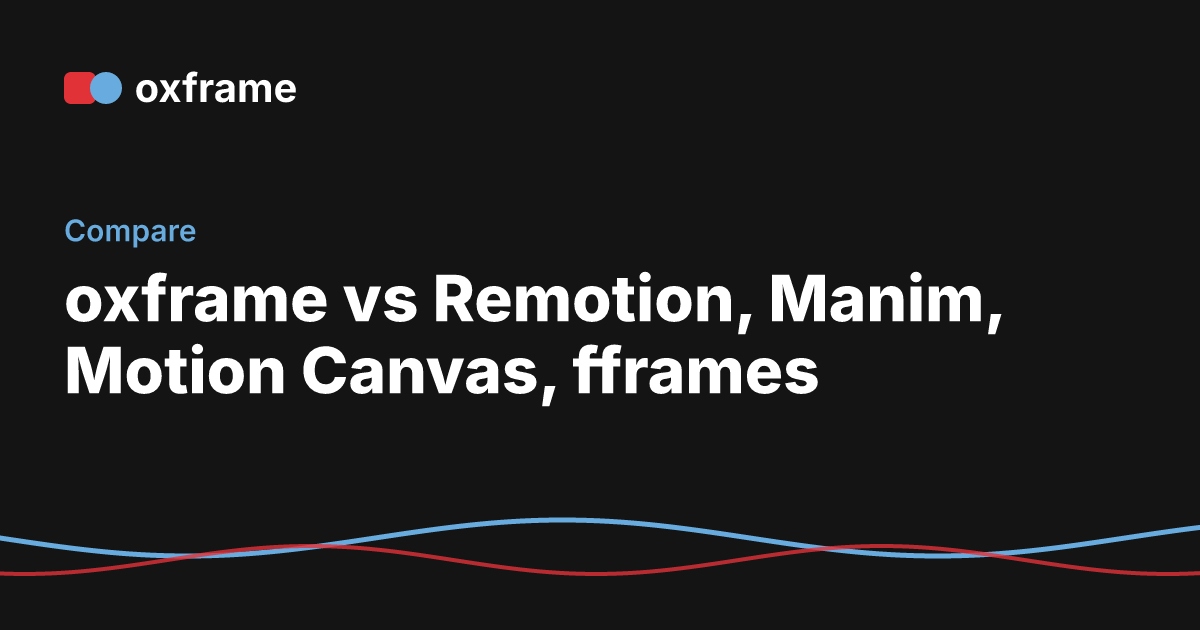
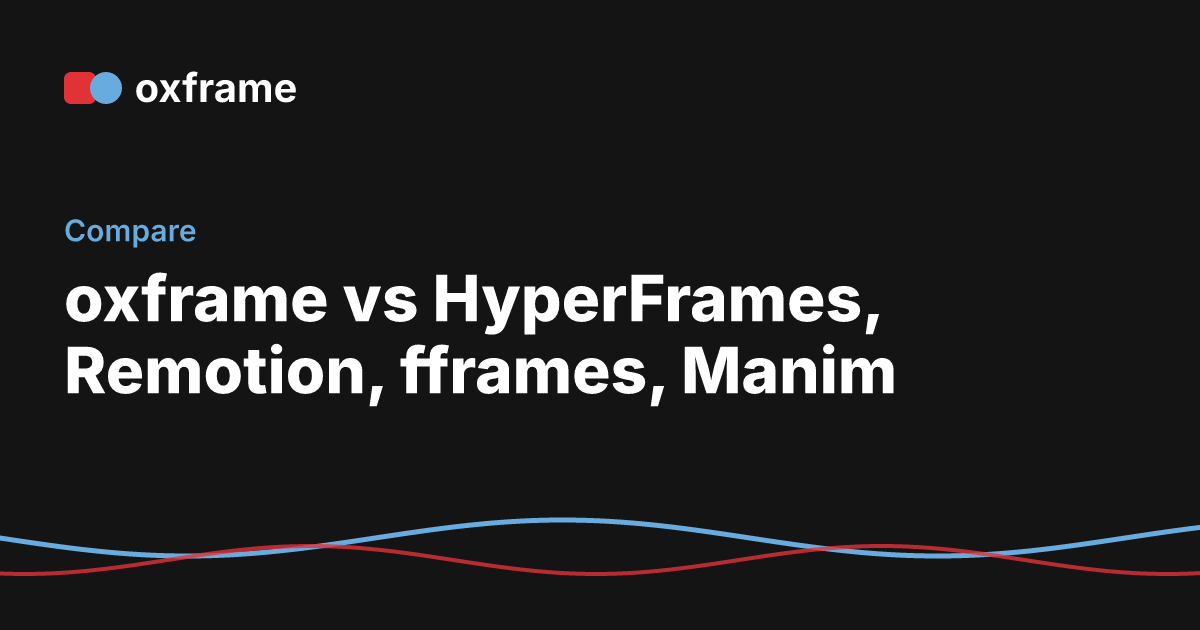
compare: add HyperFrames (and surface the real agent-era rivals) (B2)
The main competitor was missing from the tables. Add a HyperFrames column to
/compare (headers now come from the tools array, so they can't drift from the
rows), and show the agent-era tools — oxframe, HyperFrames, fframes,
Remotion — in the home table instead of the weaker-on-agents set.

The "an agent can see the picture" row is honest now: HyperFrames has
check --snapshots, snapshot --review/--against and compare; Remotion has
Agent Skills. oxframe's row names its edge — a report with line anchors, MCP
— and a new "when to pick HyperFrames" note says the same: native render, no
Chrome, determinism, a check that points at the line of code.

Changed region(s): [[0.0617, 0.4222, 0.8325, 0.6333]]

diff --git a/apps/site/src/lib/compare.ts b/apps/site/src/lib/compare.ts
@@ -1,14 +1,17 @@
 // The comparison on /compare, one row per criterion. Columns: oxframe,
-// fframes, Remotion, Motion Canvas, Manim. The home page shows a few rows.
-export const tools = ['oxframe', 'fframes', 'Remotion', 'Motion Canvas', 'Manim'];
+// fframes, Remotion, HyperFrames, Motion Canvas, Manim. Facts about other
+// tools are from their own docs/README (October 2026). The home page shows a
+// few rows for the agent-era tools (oxframe, HyperFrames, fframes, Remotion).
+export const tools = ['oxframe', 'fframes', 'Remotion', 'HyperFrames', 'Motion Canvas', 'Manim'];
 
 export const rows: string[][] = [
-  ['Language', 'Rust', 'Rust', 'React', 'TypeScript', 'Python'],
+  ['Language', 'Rust', 'Rust', 'React', 'HTML, CSS, JS', 'TypeScript', 'Python'],
   [
     'Where it renders',
     'Native CPU and GPU',
     'GPU (Skia) or CPU, from SVG',
     'Headless browser',
+    'Headless Chrome, from HTML',
     'Browser canvas',
     'Its own renderer',
   ],
@@ -17,6 +20,7 @@ export const rows: string[][] = [
     'Objects that stay linked: signals, layout, bind',
     'A function of that frame: timelines and formulas',
     'A React render of that frame',
+    'An HTML and CSS render of that frame',
     'Tweens on nodes in a coroutine',
     'Animations applied to mobjects',
   ],
@@ -25,6 +29,7 @@ export const rows: string[][] = [
     'Built in for text and shapes',
     'You draw the in-between',
     'You interpolate it',
+    'CSS and GSAP tweens you write',
     'You tween the values',
     'Transform between mobjects',
   ],
@@ -33,6 +38,7 @@ export const rows: string[][] = [
     'Seek the scene and read its state',
     'The same function, for any index',
     'Render that composition frame',
+    'Render that frame headless',
     'Seek the project',
     'Render that animation frame',
   ],
@@ -41,6 +47,7 @@ export const rows: string[][] = [
     'Yes, seeded',
     'Yes, if render_frame stays pure',
     'If the scene avoids entropy',
+    'If the page avoids entropy',
     'If the scene avoids entropy',
     'Yes, for a fixed seed',
   ],
@@ -49,14 +56,16 @@ export const rows: string[][] = [
     'Timeline, markers, tunables',
     'Preview of any frame',
     'Preview studio',
+    'Studio and a web playground',
     'Editor',
     'No timeline editor',
   ],
   [
     'An agent can see the picture',
-    'oxframe check and MCP',
+    'oxframe check: storyboard and a report with line anchors, plus MCP',
     'A skill, plus frame snapshots',
-    'You wire that yourself',
+    'Agent Skills; render stills and read them',
+    'check --snapshots, snapshot --review/--against, compare',
     'You wire that yourself',
     'You wire that yourself',
   ],
@@ -65,6 +74,7 @@ export const rows: string[][] = [
     '16:9, 9:16, 1:1 in one scene',
     'One size on the video',
     'Whatever the composition is',
+    'The size you set',
     'The project size',
     'The scene size',
   ],

diff --git a/apps/site/src/routes/compare/+page.svelte b/apps/site/src/routes/compare/+page.svelte
@@ -1,17 +1,17 @@
 <script lang="ts">
   import Seo from '$lib/components/Seo.svelte';
-  import { rows } from '$lib/compare';
+  import { rows, tools } from '$lib/compare';
   import { vsPages } from '$lib/vs';
 </script>
 
 <Seo
-  title="oxframe vs Remotion, Manim, Motion Canvas, fframes — oxframe"
-  description="A neutral comparison of oxframe, fframes, Remotion, Motion Canvas and Manim: language, renderer, scene model, morphing, editor and checks an AI agent can read."
+  title="oxframe vs HyperFrames, Remotion, fframes, Manim — oxframe"
+  description="A neutral comparison of oxframe, fframes, Remotion, HyperFrames, Motion Canvas and Manim: language, renderer, scene model, morphing, editor and agent checks."
 />
 
-<h1>oxframe, fframes, Remotion, Motion Canvas, Manim</h1>
+<h1>oxframe, fframes, Remotion, HyperFrames, Motion Canvas, Manim</h1>
 <p class="lead">
-  Five ways to make a video from code. This table is about fit, not a ranking. The facts are the
+  Six ways to make a video from code. This table is about fit, not a ranking. The facts are the
   public models of each tool as of October 2026.
 </p>
 
@@ -20,11 +20,7 @@
     <thead>
       <tr>
         <th></th>
-        <th>oxframe</th>
-        <th>fframes</th>
-        <th>Remotion</th>
-        <th>Motion Canvas</th>
-        <th>Manim</th>
+        {#each tools as t (t)}<th>{t}</th>{/each}
       </tr>
     </thead>
     <tbody>
@@ -46,6 +42,11 @@
     are not rigidly tied together.
   </li>
   <li>Pick Remotion when the video is a React app and the team already lives in that stack.</li>
+  <li>
+    Pick HyperFrames when the agent should write HTML and CSS rather than Rust, and you want its
+    block catalog, player and <code>publish</code>. oxframe's edge is a native render with no
+    Chrome, determinism, and a check that points at the line of code.
+  </li>
   <li>
     Pick Motion Canvas when you want the coroutine model in TypeScript and a browser editor is
     enough.

diff --git a/apps/site/src/routes/+page.svelte b/apps/site/src/routes/+page.svelte
@@ -94,9 +94,9 @@
     document.getElementById(`tab-${entry}`)?.focus();
   }
 
-  // A few rows of /compare, without fframes.
+  // A few rows of /compare, the agent-era tools: oxframe, HyperFrames, fframes, Remotion.
   const COMPARE = ['Language', 'Where it renders', 'Live editor', 'An agent can see the picture'];
-  const compareColumns = [0, 2, 3, 4];
+  const compareColumns = [0, 3, 1, 2];
   const compare = compareRows.filter((r) => COMPARE.includes(r[0]!));
 
   let video: HTMLVideoElement | undefined = $state();
@@ -451,7 +451,7 @@ fn main() {
     </table>
   </div>
   <p>
-    <a href="/compare">The full comparison</a>, with fframes, and guides for
+    <a href="/compare">The full comparison</a>, with Motion Canvas and Manim too, and guides for
     <a href="/docs/migrate/remotion">moving from Remotion</a>,
     <a href="/docs/migrate/motion-canvas">Motion Canvas</a> and
     <a href="/docs/migrate/manim">Manim</a>.
